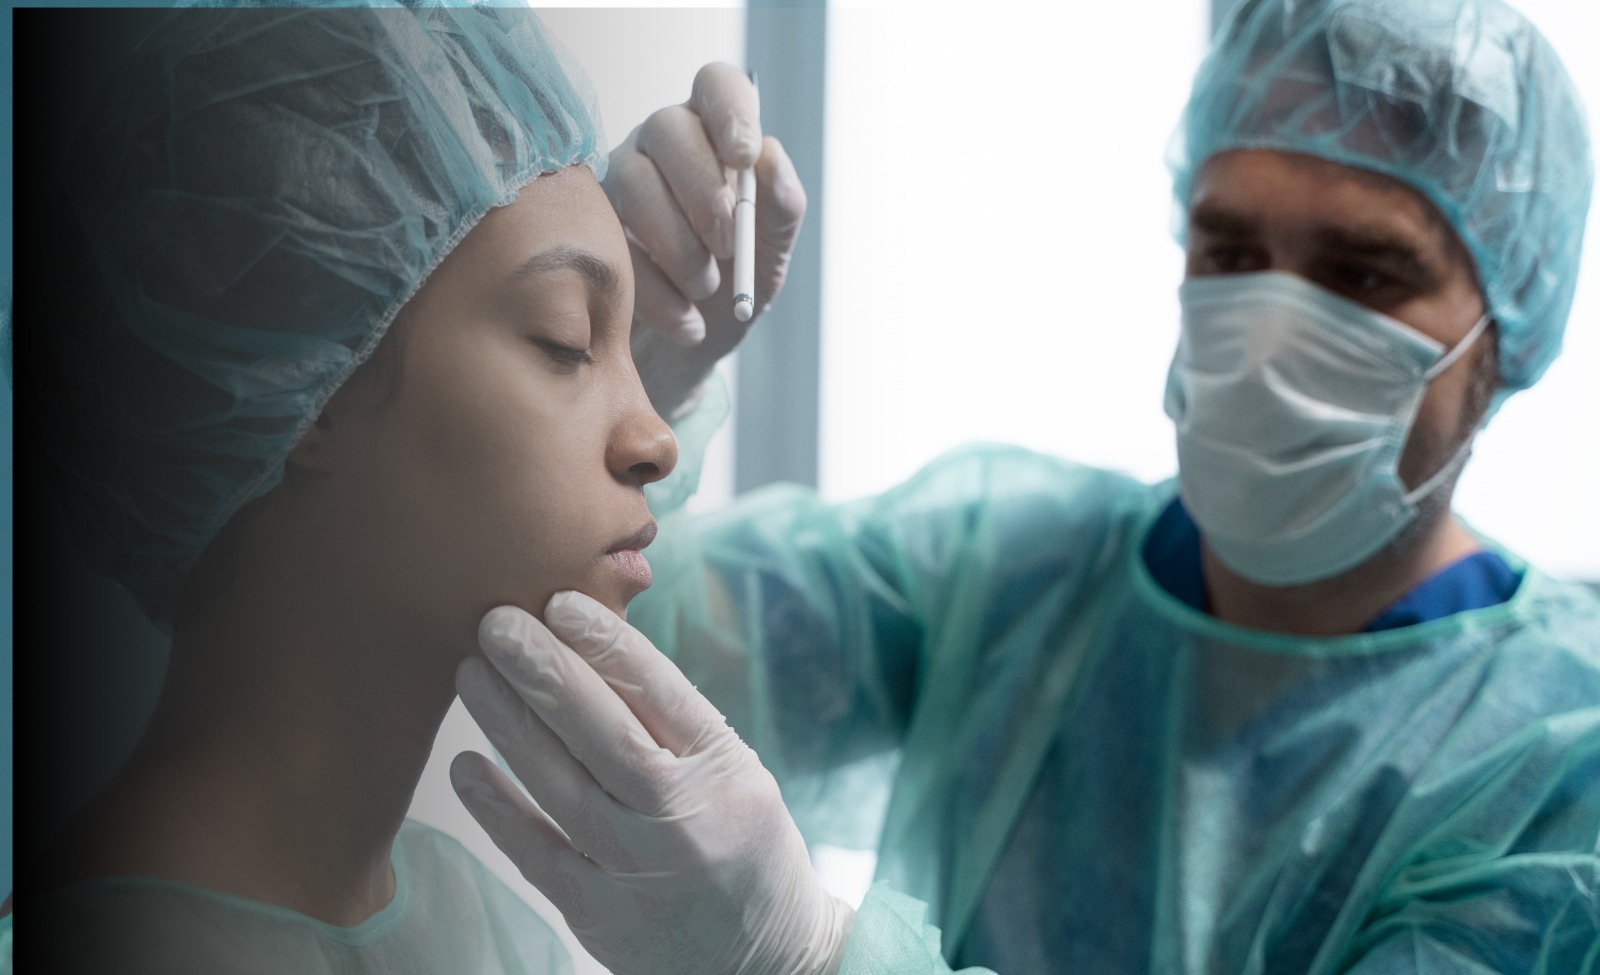
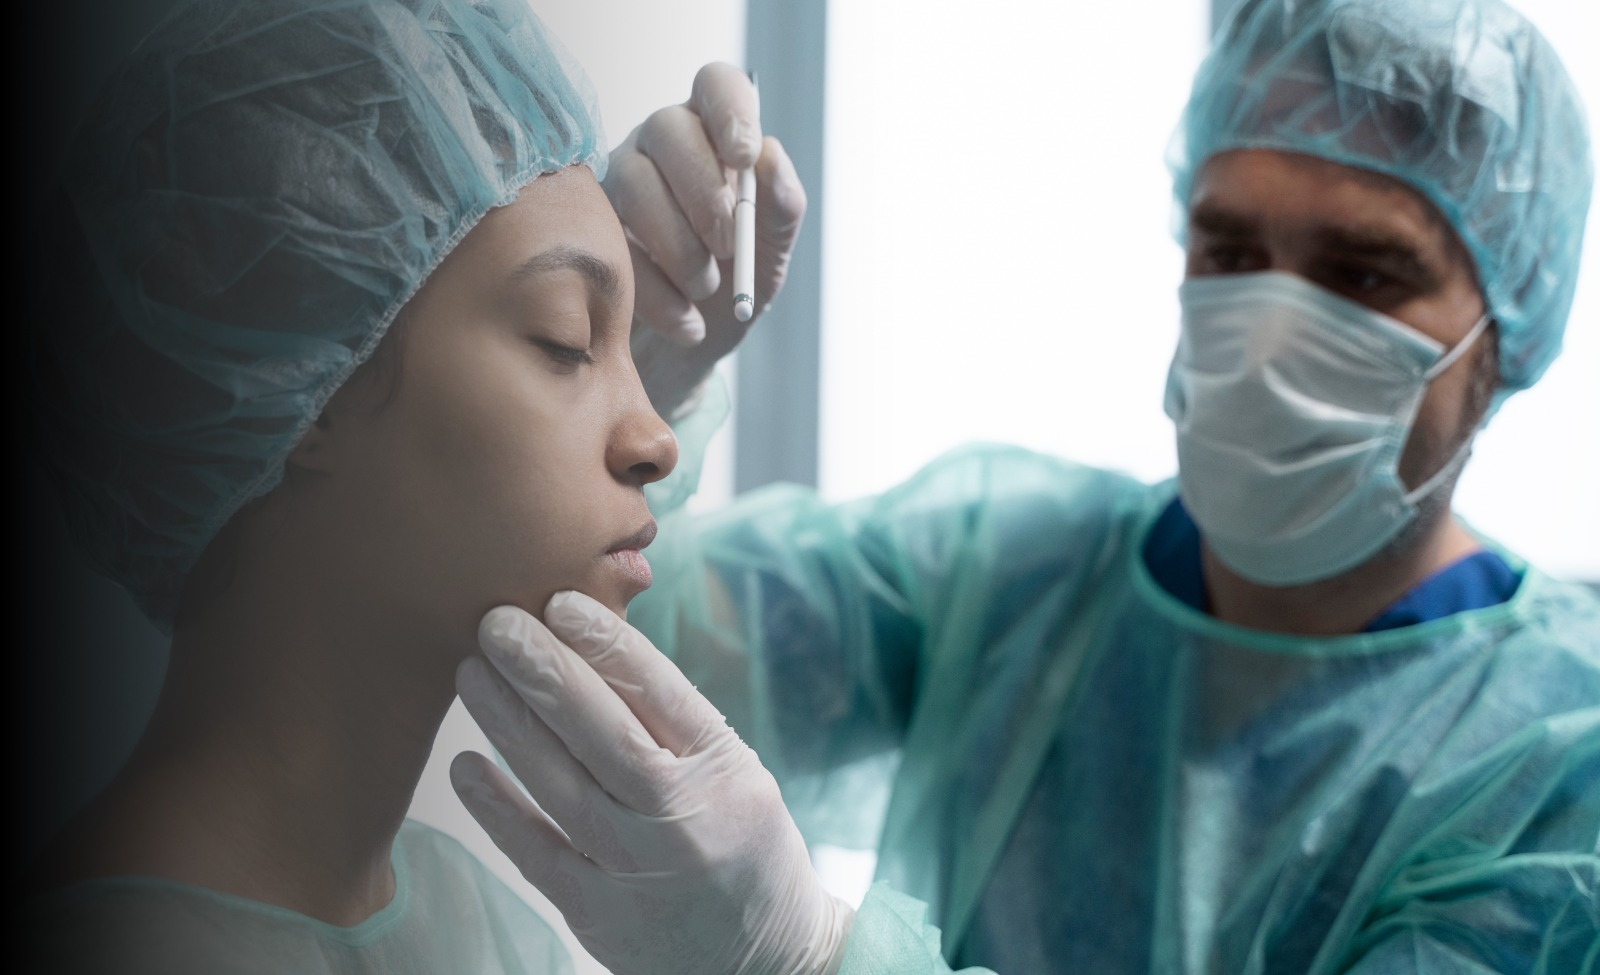
added change

Changed region(s): [[0.0, 0.0, 0.4062, 1.0]]

diff --git a/src/components/common/ImageAssets.jsx b/src/components/common/ImageAssets.jsx
@@ -64,6 +64,7 @@ import vitiligoManagement from '../../assets/images/Vitiligo-Management.jpg';
 import eczemaPsoriasis from '../../assets/images/eczema-Psoriasis-Care.jpg';
 import skinCorrecting from '../../assets/images/skin-correcting.jpg';
 import hairRestoration from '../../assets/images/hair-restoration.jpg';
+import priceList from '../../assets/images/price-list.jpg'
 
 
 
@@ -72,7 +73,7 @@ import hairRestoration from '../../assets/images/hair-restoration.jpg';
 
 
 const ImageAssets={
-    logo,rejuvenatingImage,hamburgerIcon,drAlicaImage,drJulianaImage,drMikkilineni,crossIconSidebar,cosmeticServices,injectables,acneTreatment,Expert1,Expert2,aboutImage1,aboutJulianaCotler,aboutRadhaMikkilinen,officeImage1,officeImage2,officeImage3,officeImage4,careResourceImage,payBillImage,blogBanner,blog1,blog2,blog3,blog4,blog5,beforeAfterImg,beforeAfter1,beforeAfter2,contactImage,posterImage,beforeandafter,aboutTest,aboutOffice,service1,service2,service3,service4,skinreju,service5,blog2Hero,beforeAfterSR3,beforeAfterIn1,beforeAfterIn2,beforeAfterIn3,beforeAfterCd1,beforeAfterCd2,beforeAfterAt1,beforeAfterAt2,logoFooter,moleSkin,excisionProcedures,skinCancer,cryotherapy,nailCare,rosaceaTreatment,hairScalp,vitiligoManagement,eczemaPsoriasis,hairRestoration,skinCorrecting
+    logo,rejuvenatingImage,hamburgerIcon,drAlicaImage,drJulianaImage,drMikkilineni,crossIconSidebar,cosmeticServices,injectables,acneTreatment,Expert1,Expert2,aboutImage1,aboutJulianaCotler,aboutRadhaMikkilinen,officeImage1,officeImage2,officeImage3,officeImage4,careResourceImage,payBillImage,blogBanner,blog1,blog2,blog3,blog4,blog5,beforeAfterImg,beforeAfter1,beforeAfter2,contactImage,posterImage,beforeandafter,aboutTest,aboutOffice,service1,service2,service3,service4,skinreju,service5,blog2Hero,beforeAfterSR3,beforeAfterIn1,beforeAfterIn2,beforeAfterIn3,beforeAfterCd1,beforeAfterCd2,beforeAfterAt1,beforeAfterAt2,logoFooter,moleSkin,excisionProcedures,skinCancer,cryotherapy,nailCare,rosaceaTreatment,hairScalp,vitiligoManagement,eczemaPsoriasis,hairRestoration,skinCorrecting,priceList
 };
 
 export default ImageAssets;

diff --git a/src/pages/Pricing.jsx b/src/pages/Pricing.jsx
@@ -8,7 +8,7 @@ import Footer from "@/components/common/Footer/Footer";
 const Pricing = () => (
   <>
    <Hero
-        image={ImageAssets.payBillImage}
+        image={ImageAssets.priceList}
         // heading="PAY BILL"
         showButton={false}
       />
